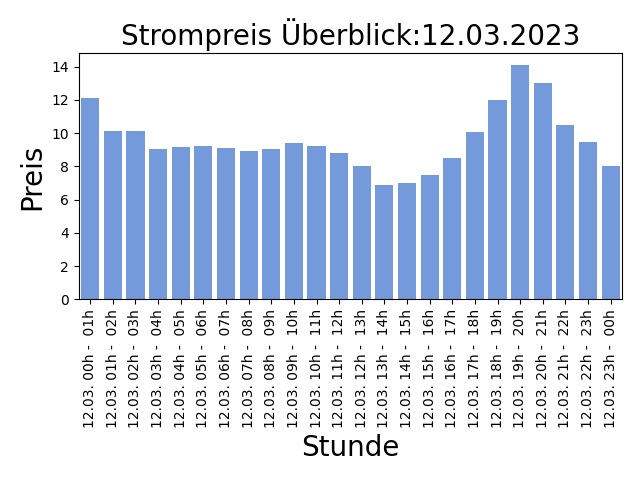
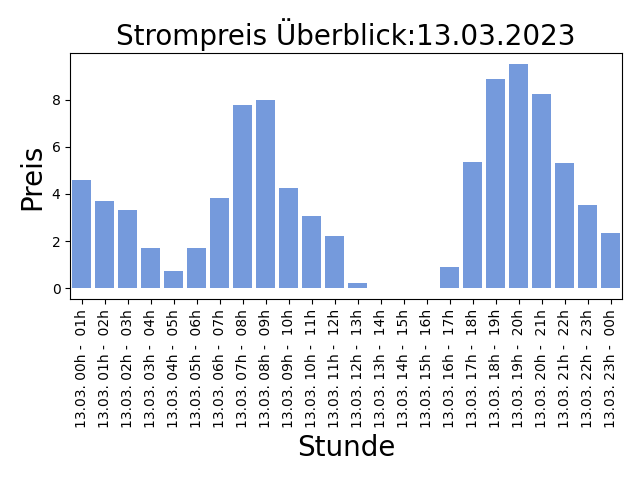
AUTOMATIC UPDATE PRICE LIST: 2023-03-12-14:30:11

Changed region(s): [[0.0625, 0.125, 0.9688, 0.9688], [0.1875, 0.0312, 0.9062, 0.125], [0.0625, 0.125, 0.125, 0.1562]]

diff --git a/README.md b/README.md
@@ -1,5 +1,5 @@
 
-## Strompreise für den 12.03.2023
+## Strompreise für den 13.03.2023
 
 Niedrige Preise deuten auf viel Sonnen und Windenergieerzeugung hin, ein hoher Anteil an erneuerbaren Energien bedeuted weniger CO2 Verbrauch!
 
@@ -7,31 +7,31 @@ Niedrige Preise deuten auf viel Sonnen und Windenergieerzeugung hin, ein hoher A
 
 | Stunde | Preis in Cent/kWh |
 |---|---|
-| 12.03. 00h -  01h | 12.101 | 
-| 12.03. 01h -  02h | 10.118 | 
-| 12.03. 02h -  03h | 10.118 | 
-| 12.03. 03h -  04h | 9.043000000000001 | 
-| 12.03. 04h -  05h | 9.181000000000001 | 
-| 12.03. 05h -  06h | 9.208 | 
-| 12.03. 06h -  07h | 9.081 | 
-| 12.03. 07h -  08h | 8.905 | 
-| 12.03. 08h -  09h | 9.027 | 
-| 12.03. 09h -  10h | 9.398 | 
-| 12.03. 10h -  11h | 9.2 | 
-| 12.03. 11h -  12h | 8.779 | 
-| 12.03. 12h -  13h | 8.040000000000001 | 
-| **12.03. 13h -  14h** | **6.895999999999999** | 
-| 12.03. 14h -  15h | 7.0 | 
-| 12.03. 15h -  16h | 7.49 | 
-| 12.03. 16h -  17h | 8.504999999999999 | 
-| 12.03. 17h -  18h | 10.091 | 
-| 12.03. 18h -  19h | 11.985 | 
-| 12.03. 19h -  20h | 14.104 | 
-| 12.03. 20h -  21h | 12.997 | 
-| 12.03. 21h -  22h | 10.469 | 
-| 12.03. 22h -  23h | 9.487 | 
-| 12.03. 23h -  00h | 8.055 | 
+| 13.03. 00h -  01h | 4.599 | 
+| 13.03. 01h -  02h | 3.7090000000000005 | 
+| 13.03. 02h -  03h | 3.336 | 
+| 13.03. 03h -  04h | 1.689 | 
+| 13.03. 04h -  05h | 0.751 | 
+| 13.03. 05h -  06h | 1.689 | 
+| 13.03. 06h -  07h | 3.849 | 
+| 13.03. 07h -  08h | 7.770999999999999 | 
+| 13.03. 08h -  09h | 7.981 | 
+| 13.03. 09h -  10h | 4.246 | 
+| 13.03. 10h -  11h | 3.051 | 
+| 13.03. 11h -  12h | 2.232 | 
+| 13.03. 12h -  13h | 0.207 | 
+| 13.03. 13h -  14h | -0.002 | 
+| **13.03. 14h -  15h** | **-0.003** | 
+| 13.03. 15h -  16h | 0.026000000000000002 | 
+| 13.03. 16h -  17h | 0.9029999999999999 | 
+| 13.03. 17h -  18h | 5.337 | 
+| 13.03. 18h -  19h | 8.859 | 
+| 13.03. 19h -  20h | 9.5 | 
+| 13.03. 20h -  21h | 8.233 | 
+| 13.03. 21h -  22h | 5.294 | 
+| 13.03. 22h -  23h | 3.5450000000000004 | 
+| 13.03. 23h -  00h | 2.332 | 
 
 Preise der EPEX Spot ® Strombörse (neue Preise werden täglich um 14:00 veröffentlicht für den kompletten nächsten Tag).
 
-letzte Aktualisierung:11.03.2023 14:30
+letzte Aktualisierung:12.03.2023 14:30
